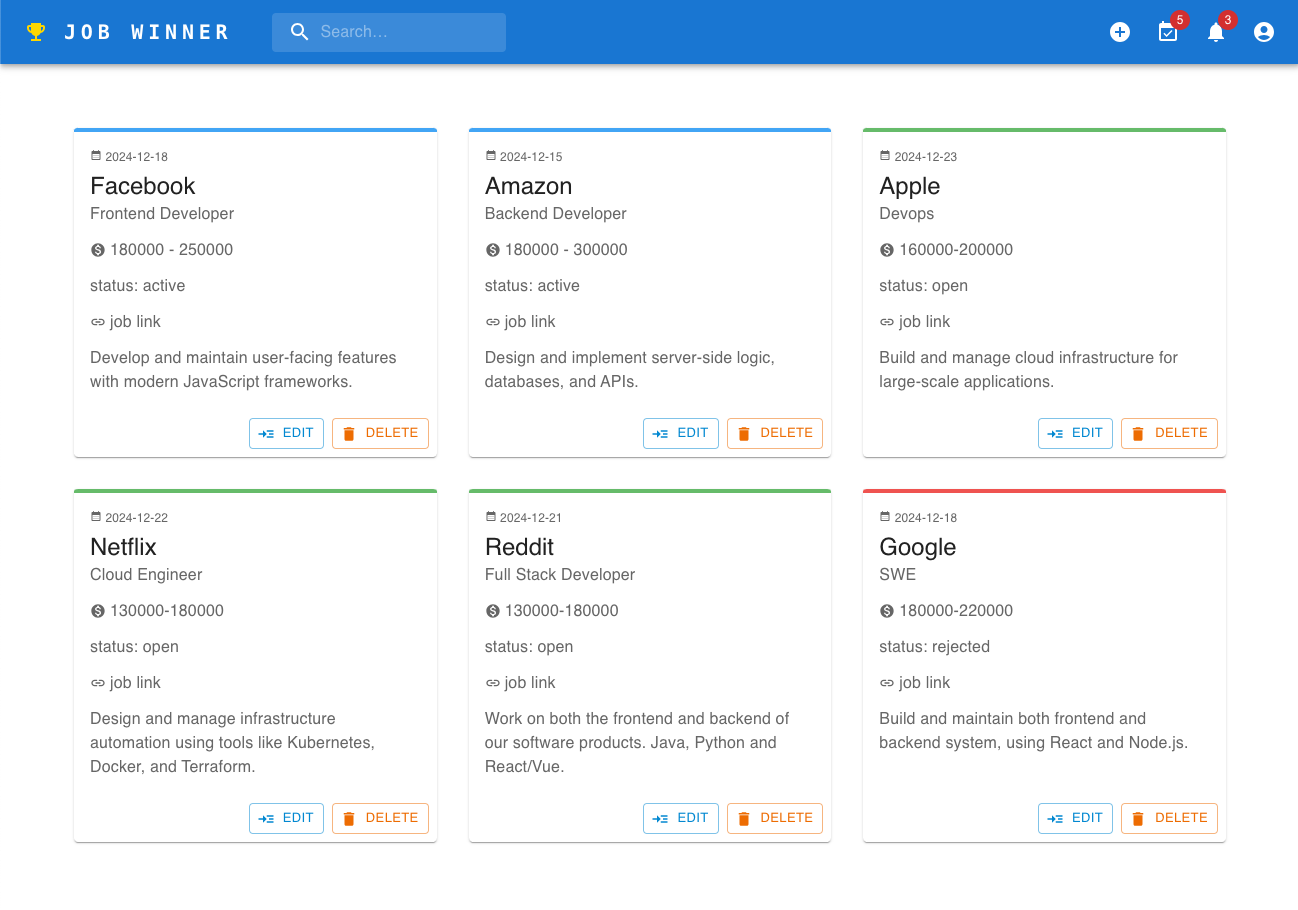
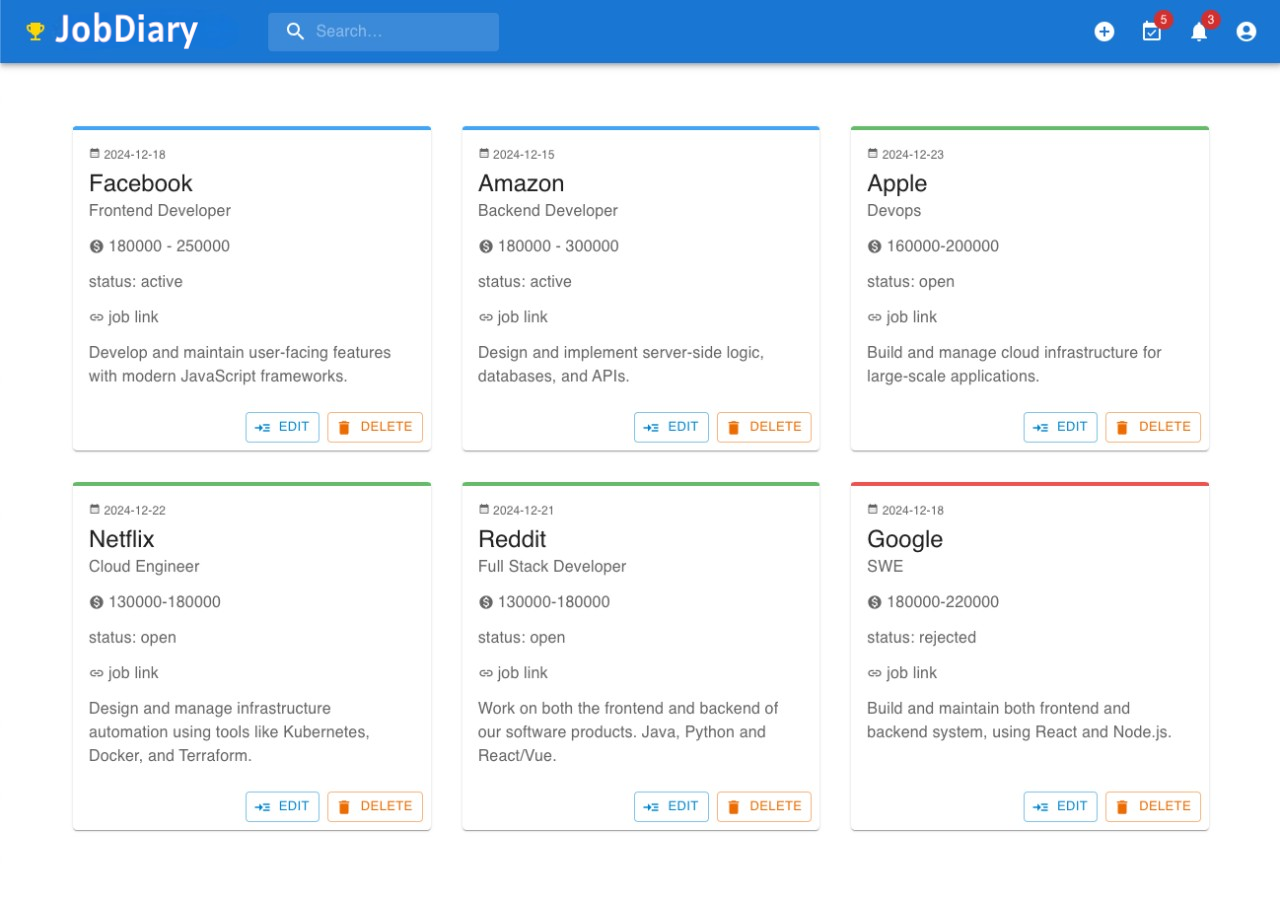
updated some stying

diff --git a/src/components/AppHeader.jsx b/src/components/AppHeader.jsx
@@ -148,7 +148,7 @@ export default function AppHeader() {
               textDecoration: 'none',
             }}
           >
-            JOB WINNER
+            JobDiary
           </Typography>
           <SearchBar onSearch={handleSearch} />
           <Box sx={{ flexGrow: 1 }} />
